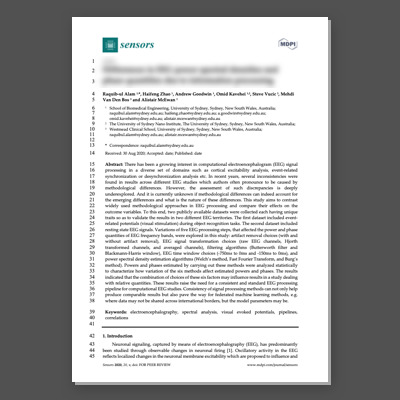
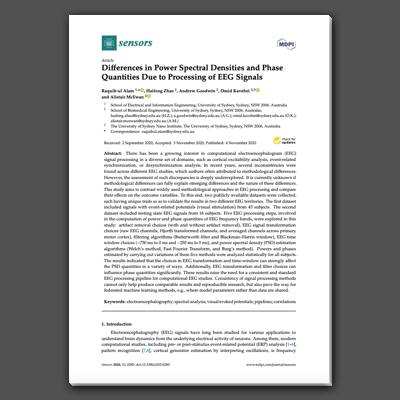
Update the portfolio item for EEG journal paper

Changed region(s): [[0.21, 0.09, 0.75, 0.93], [0.15, 0.03, 0.84, 0.99], [0.69, 0.09, 0.75, 0.12]]

diff --git a/docs/project/eeg-processing.md b/docs/project/eeg-processing.md
@@ -1,10 +1,11 @@
 ---
-title: EEG Signal Processing - UNDER REVIEW
+title: EEG Signal Processing Methods for Statistical Analysis
 lang: en-US
 tags: ['Machine Learning']
 thumbnail: ./eeg-thumb.png
 description: A project to process EEG signals to extract novel features towards statistical analysis and machine learning.
-info: [{key: 'Role', value: 'Lead researcher'}, {key: 'Affiliation', value: 'University of Sydney'}, {key: 'Skills involved', value: ['Signal processing', 'Machine learning', 'Statistical analysis', 'Mathematics']}, {key: 'Tech used', value: ['MATLAB', 'Python', 'Tensorflow', 'EEGLAB']}]
+links: [{url: 'https://doi.org/10.3390/s20216285', text: 'View journal article', icon: ['fas', 'book']}]
+info: [{key: 'DOI', value: '10.3390/s20216285'}, {key: 'Date published', value: '4 November 2020'}, {key: 'Role', value: 'Lead researcher'}, {key: 'Affiliation', value: 'University of Sydney'}, {key: 'Skills involved', value: ['Signal processing', 'Machine learning', 'Statistical analysis', 'Mathematics']}, {key: 'Tech used', value: ['MATLAB', 'Python', 'Tensorflow', 'EEGLAB']}]
 date: 2020-01-01
 ---
 ![An image](/eeg.png)
